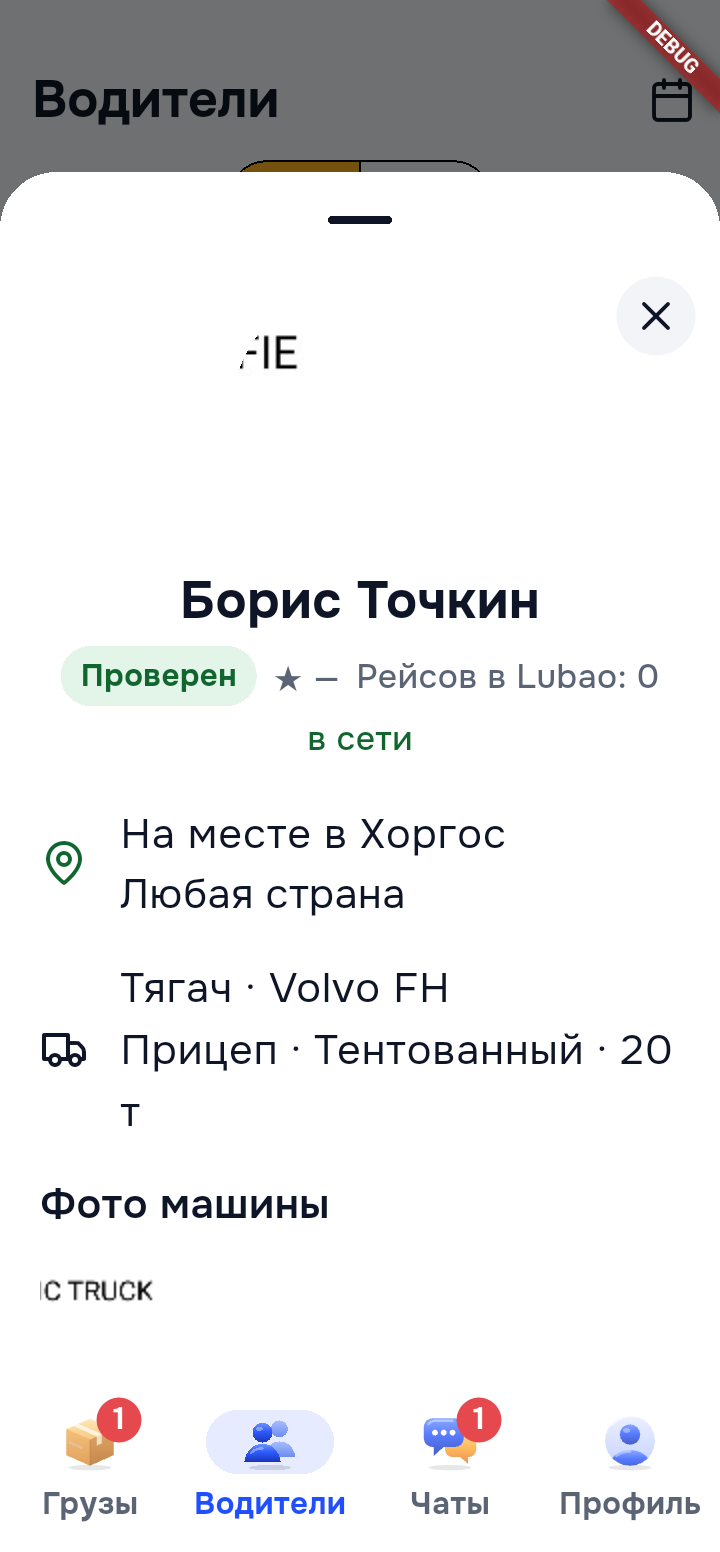
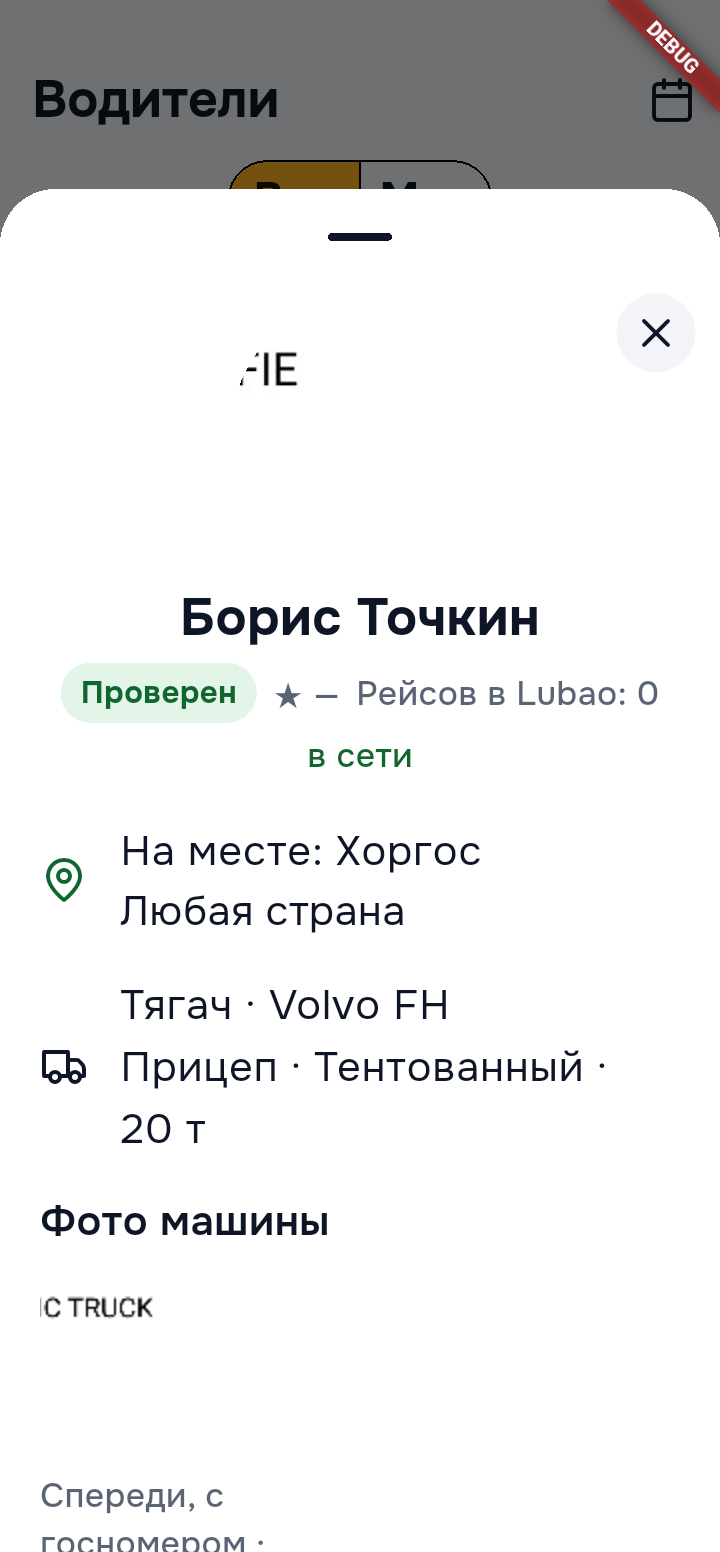
067: статус «готово», снимки шторки

diff --git a/docs/tasks/067-driver-card-full-info.md b/docs/tasks/067-driver-card-full-info.md
@@ -1,6 +1,27 @@
 # 067 — Нажатие на водителя → полная карточка с фото; без значка фото в строке
 
-Статус: не начато.
+Статус: **готово** (2026-10-13).
+- п.1 ✅ Нажатие на любое место строки открывает шторку `showDriverInfoSheet`: «Кто свободен», «Мои водители» (кроме ещё не принявших приглашение), отклики на груз, а также фото водителя в шапке сделки. Кнопки в строке (звонок, чат, WhatsApp, «Предложить», ☆) работают отдельно. В откликах со сделкой сделка открывается нажатием на её статус, нажатие на строку — карточка водителя.
+- п.2 ✅ Значок 🖼 и отдельное нажатие на строку машины убраны («Кто свободен», отклики); шторка «только фото машины» удалена. Миниатюра кузова осталась.
+- п.3 ✅ Шторка сверху вниз:
+  - фото крупно (нажатие — на весь экран), нет фото — буквы;
+  - имя, «Проверен», ★, рейсы, «в сети / был …»;
+  - статус («На месте: Хоргос» / «Еду, буду в … дата» / «Сейчас не ищет груз») и страны;
+  - связка «Тягач · марка» / «Прицеп · кузов · т · м³»;
+  - допуски, отмены «отменил 1 из 15 · после загрузки 1»;
+  - фото машины галереей — нажатие на весь экран с листанием;
+  - отзывы компаний: 3 последних и «Все отзывы (N)», до 20 с сервера;
+  - внизу «Позвонить» (номер — по нажатию, contact_event и лимит), WhatsApp (не для китайских компаний), «Написать»; в откликах ещё «Выбрать» / «Выбрать за $…».
+
+  Документов в шторке нет (044). Паллеты в шторке не показываются (068). Расстояния «В пути, ~N км» в карточке нет: сервер отдаёт только анонс (город и дату), а не трек. Показывается «Еду, буду в …».
+- п.4 ✅ `GET /drivers/:id/card` расширен: lastSeenAt, связка машин, допуски, отмены, отзывы. Карточка, аватар, фото машины и отзывы не требуют проверки компании (066). В приложении ничего не скрывается по проверке.
+- п.5 ✅ Закрыть: свайп вниз, затемнение, «Назад», ✕ в правом верхнем углу (поверх прокрутки). Фото на весь экран — ✕ или свайп вниз. Шторка открывается поверх нижних вкладок.
+- п.6 ✅ SE и 360 dp с крупным шрифтом: кнопки столбиком, если каждой меньше 160 dp; «20 т» неразрывно (см. снимки).
+- п.7 ✅ ARB, 4 языка.
+- п.8 ✅ e2e:
+  - `logist_drivers`: нажатие по строке D3 (миниатюра кузова, не имя) → шторка с фото водителя → фото машины (синтетическое, через API) на весь экран и ✕ → «Позвонить» → ✕ закрывает;
+  - `unverified_publish`: то же у непроверенной компании (D4, синтетические фото профиля и машины через API).
+- Проверка: полный `scripts/e2e.sh` зелёный: iPhone SE и Android 360 (крупный шрифт) — все 15 сценариев, API-смоук 194, админка в Chrome 18 passed (1280 и 390). Снимки шторки — `evidence/067/`.
 Откуда: владелец 2026-10-13 — «При нажатии на водителя должна всплывать полная информация о водителе с фото. Убери иконку фото в карточке. Просмотр — даже если компания не проверена».
 Оценка: 3–4 часа.
 
